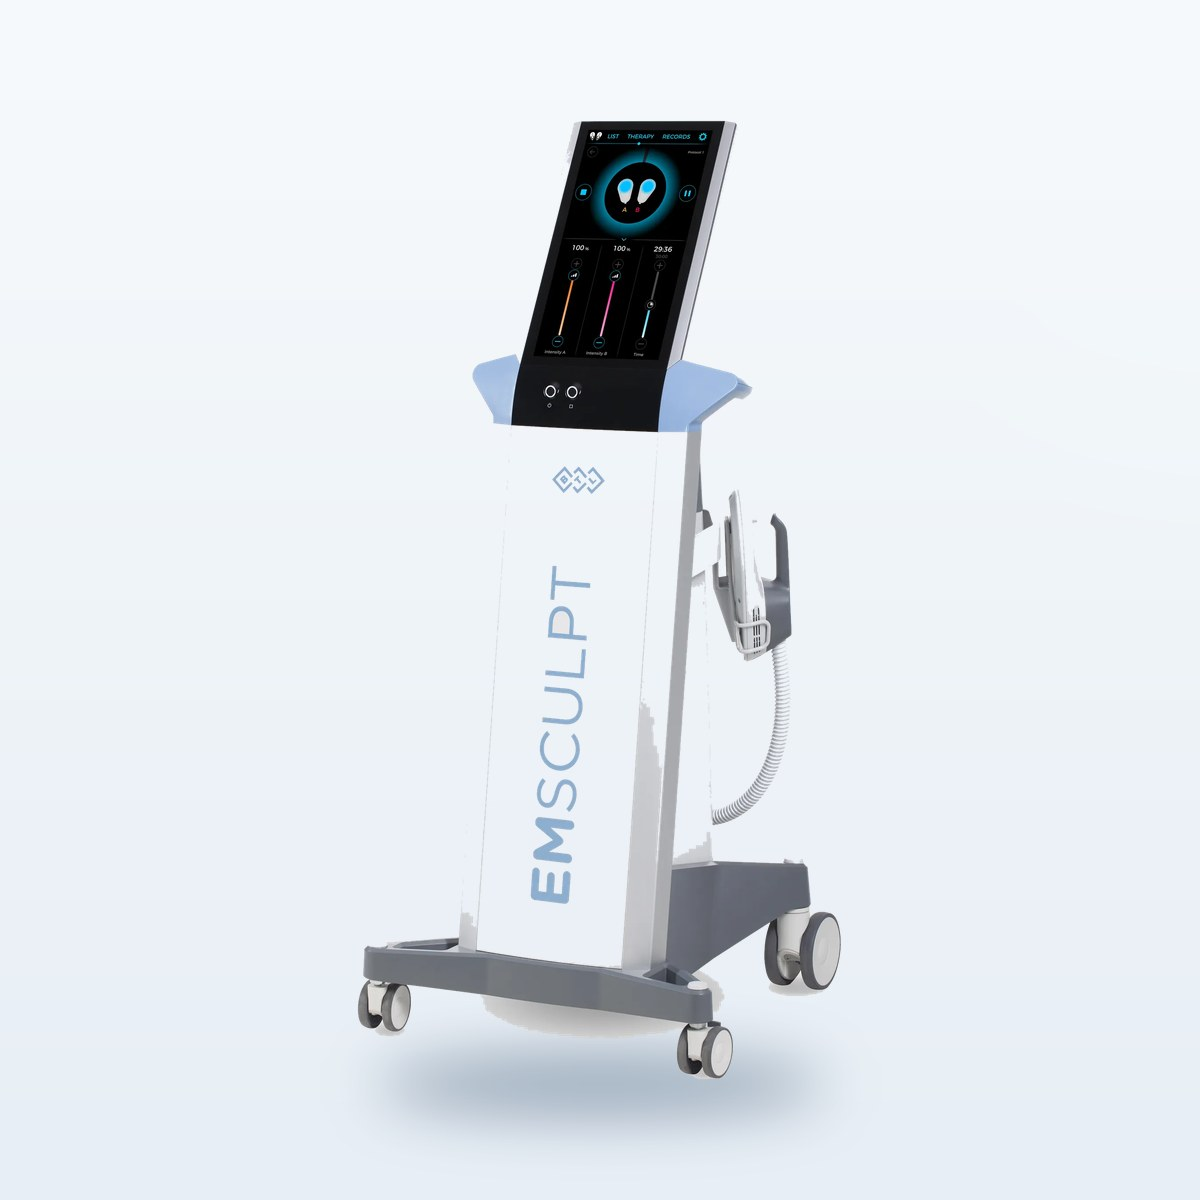
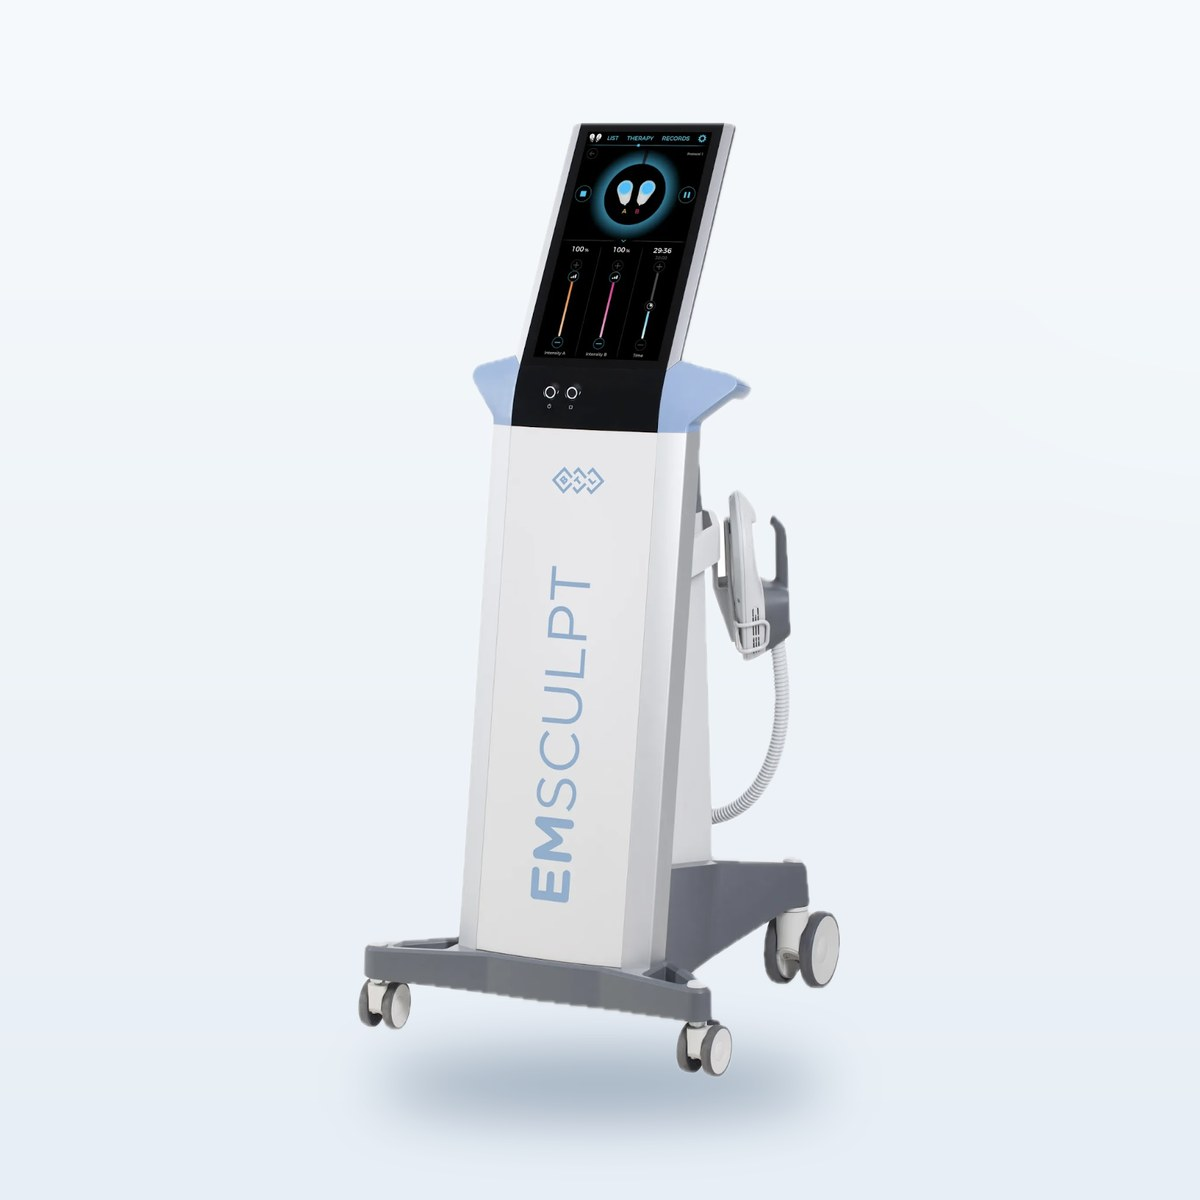
Use the supplied transparent device art in the hero offers widget
- EmSculpt offer uses the supplied transparent EmSculpt PNG
- Men's package offer uses Skin Xcell, which already ships with alpha

Both supplied files have cleaner edges than the flood-fill cutouts they
replace, so the EmSculpt and xCellaris device cards are regenerated from
them too, and the now-unused cutouts are dropped.

Claude-Session: https://claude.ai/code/session_01N7QZW48BeiyADQ2QtaFL6F

diff --git a/index.html b/index.html
@@ -146,7 +146,7 @@
         <div class="promo__win">
           <div class="promo__track" id="promoTrack">
             <article class="promo__item">
-              <img class="promo__thumb" loading="lazy" src="assets/img/devices/device-emsculpt-neo-cut.png" alt="EmSculpt Neo">
+              <img class="promo__thumb" loading="lazy" src="assets/img/devices/promo-emsculpt.png" alt="EmSculpt Neo">
               <div class="promo__text">
               <span class="promo__kicker">Body sculpting</span>
               <h3 class="promo__title">EmSculpt Neo at London Real Skin</h3>
@@ -156,7 +156,7 @@
               </div>
             </article>
             <article class="promo__item">
-              <img class="promo__thumb" loading="lazy" src="assets/img/devices/device-btl-exion-cut.png" alt="BTL Exion">
+              <img class="promo__thumb" loading="lazy" src="assets/img/devices/promo-xcellaris.png" alt="xCellaris Pro Twist">
               <div class="promo__text">
               <span class="promo__kicker">Package</span>
               <h3 class="promo__title">Rejuvenation for Men</h3>
